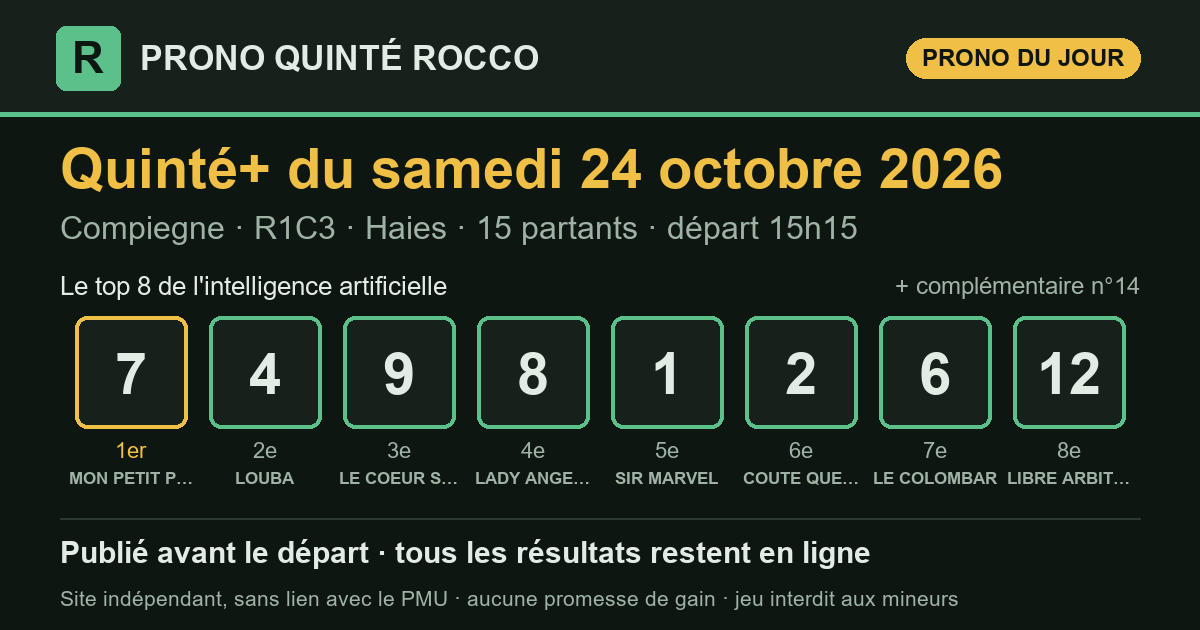
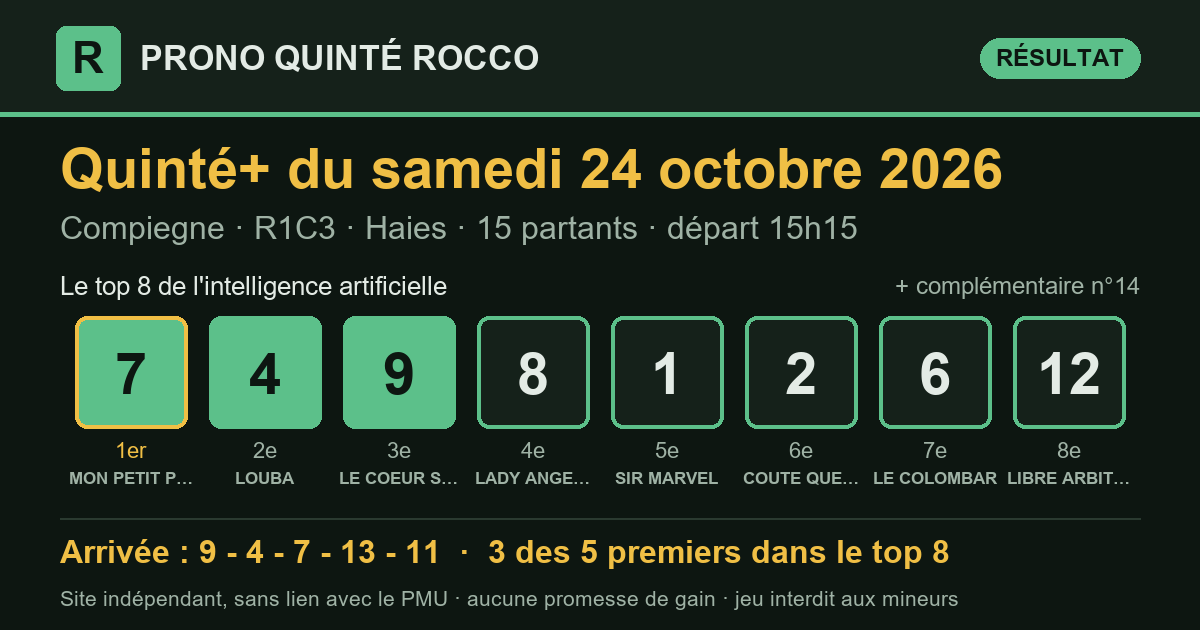
Prono Quinté+ 2026-10-24 Compiegne R1C3 — publié le 24/10/2026 15:34 (heure de Paris)

Changed region(s): [[0.0617, 0.4825, 0.4008, 0.6937], [0.0308, 0.8444, 0.8017, 0.9048], [0.74, 0.0603, 0.9558, 0.1508]]

diff --git a/partants.html b/partants.html
@@ -3,7 +3,7 @@
 <head>
 <meta charset="utf-8">
 <meta name="viewport" content="width=device-width, initial-scale=1, viewport-fit=cover">
-<title>Partants du Quinté+ du samedi 24 octobre 2026 — Prono Quinté Rocco</title>
+<title>Partants du Quinté+ du dimanche 25 octobre 2026 — Prono Quinté Rocco</title>
 <meta name="description" content="Les partants du prochain Quinté+ (programme officiel du PMU), avec le rang du prono IA et les liens vers les pronostics de la presse.">
 <link rel="canonical" href="https://prono-quinte-rocco.fr/partants.html">
 <link rel="stylesheet" href="style.css?v=3c55eb2c">
@@ -13,7 +13,7 @@
 <meta property="og:site_name" content="Prono Quinté Rocco">
 <meta property="og:locale" content="fr_FR">
 <meta property="og:type" content="website">
-<meta property="og:title" content="Partants du Quinté+ du samedi 24 octobre 2026 — Prono Quinté Rocco">
+<meta property="og:title" content="Partants du Quinté+ du dimanche 25 octobre 2026 — Prono Quinté Rocco">
 <meta property="og:description" content="Les partants du prochain Quinté+ (programme officiel du PMU), avec le rang du prono IA et les liens vers les pronostics de la presse.">
 <meta property="og:url" content="https://prono-quinte-rocco.fr/partants.html">
 <meta name="twitter:card" content="summary">
@@ -29,95 +29,100 @@
   <p class="surtitre">Programme officiel du PMU</p>
   <h1>Les partants du prochain Quinté+</h1>
   <div class="fiche-course">
-    <p class="fiche-date">Samedi 24 octobre 2026</p>
-    <div class="fiche-rc"><span class="pastille" title="Réunion 1">R1</span><span class="pastille" title="Course 3">C3</span><span class="fiche-nom">Prix de Beaune</span></div>
-    <p class="meta">Compiegne · Obstacle · 3 600 m · 15 partants</p>
+    <p class="fiche-date">Dimanche 25 octobre 2026</p>
+    <div class="fiche-rc"><span class="pastille" title="Réunion 1">R1</span><span class="pastille" title="Course 5">C5</span><span class="fiche-nom">Prix de l&#x27;Elevage</span></div>
+    <p class="meta">Saint-Cloud · Plat · 2 500 m · 16 partants</p>
     <p class="fiche-depart">Départ <b>15:15</b> <span>heure de Paris</span></p>
   </div>
   <p class="surtitre">Les pronostics ailleurs sur le web</p>
-  <div class="liens"><a class="lien-ext" href="https://www.turfoo.fr/programmes-courses/261024/reunion1-compiegne/course3-prix-de-beaune/pronostics-presse/" rel="noopener" target="_blank"><b>Les pronostics de la presse →</b><span>sur Turfoo (site extérieur)</span></a><a class="lien-ext" href="https://www.geny.com/programme/2026-10-24" rel="noopener" target="_blank"><b>Partants et pronostics →</b><span>programme du jour sur Geny (site extérieur)</span></a></div>
+  <div class="liens"><a class="lien-ext" href="https://www.turfoo.fr/programmes-courses/261025/reunion1-saint-cloud/course5-prix-de-l-elevage/pronostics-presse/" rel="noopener" target="_blank"><b>Les pronostics de la presse →</b><span>sur Turfoo (site extérieur)</span></a><a class="lien-ext" href="https://www.geny.com/programme/2026-10-25" rel="noopener" target="_blank"><b>Partants et pronostics →</b><span>programme du jour sur Geny (site extérieur)</span></a></div>
   <div class="liste-boite"><table class="liste-partants">
     <thead><tr><th>N°</th><th>Cheval</th><th class="cote"><span class="long">Cote du matin</span><span class="court">Cote</span></th>
     <th class="ia"><span class="long">Prono IA</span><span class="court">IA</span></th></tr></thead>
     <tbody><tr>
   <td><span class="tapis petit">1</span></td>
-  <td><span class="cheval">SIR MARVEL</span><span class="sous">L.PHILIPPERON · M.SEROR (S)</span></td>
-  <td class="cote num">11,0</td>
-  <td class="ia"><span class="etat place">5<sup>e</sup></span></td>
+  <td><span class="cheval">AGILE</span><span class="sous">M.VELON · JM.BEGUIGNE</span></td>
+  <td class="cote num">—</td>
+  <td class="ia">—</td>
 </tr><tr>
   <td><span class="tapis petit">2</span></td>
-  <td><span class="cheval">COUTE QUE COUTE</span><span class="sous">J.REVELEY · H.MERIENNE (S)</span></td>
-  <td class="cote num">11,0</td>
-  <td class="ia"><span class="etat place">6<sup>e</sup></span></td>
+  <td><span class="cheval">SHRIHARA</span><span class="sous">A.HAMELIN · C.FEY (S)</span></td>
+  <td class="cote num">—</td>
+  <td class="ia">—</td>
 </tr><tr>
   <td><span class="tapis petit">3</span></td>
-  <td><span class="cheval">BELLE GOSSE</span><span class="sous">A.ZULIANI · F.NICOLLE</span></td>
-  <td class="cote num">18,0</td>
+  <td><span class="cheval">MAIA STAR</span><span class="sous">PC.BOUDOT · JPH .DUBOIS</span></td>
+  <td class="cote num">—</td>
   <td class="ia">—</td>
 </tr><tr>
   <td><span class="tapis petit">4</span></td>
-  <td><span class="cheval">LOUBA</span><span class="sous">B.LE CLERC · F.BELLEMERE</span></td>
-  <td class="cote num">6,4</td>
-  <td class="ia"><span class="etat place">2<sup>e</sup></span></td>
+  <td><span class="cheval">AMERICAN GLORY</span><span class="sous">A.LEMAITRE · N.PERRET (S)</span></td>
+  <td class="cote num">—</td>
+  <td class="ia">—</td>
 </tr><tr>
   <td><span class="tapis petit">5</span></td>
-  <td><span class="cheval">LADY LADY LAY</span><span class="sous">J.CHARRON · GAB.LEENDERS (S)</span></td>
-  <td class="cote num">17,0</td>
+  <td><span class="cheval">HASAPIKO</span><span class="sous">T.BACHELOT · S.WATTEL (S)</span></td>
+  <td class="cote num">—</td>
   <td class="ia">—</td>
 </tr><tr>
   <td><span class="tapis petit">6</span></td>
-  <td><span class="cheval">LE COLOMBAR</span><span class="sous">J.PHELIPPE · M.SEROR (S)</span></td>
-  <td class="cote num">14,0</td>
-  <td class="ia"><span class="etat place">7<sup>e</sup></span></td>
+  <td><span class="cheval">WEEMAGATEE</span><span class="sous">M.GRANDIN · J.ANDREU (S)</span></td>
+  <td class="cote num">—</td>
+  <td class="ia">—</td>
 </tr><tr>
   <td><span class="tapis petit">7</span></td>
-  <td><span class="cheval">MON PETIT PRINCE</span><span class="sous">T.CHEVILLARD · GAB.LEENDERS (S)</span></td>
-  <td class="cote num">4,9</td>
-  <td class="ia"><span class="etat place">1<sup>er</sup></span></td>
+  <td><span class="cheval">AME D&#x27;OR</span><span class="sous">M.BARZALONA · FH.GRAFFARD (S)</span></td>
+  <td class="cote num">—</td>
+  <td class="ia">—</td>
 </tr><tr>
   <td><span class="tapis petit">8</span></td>
-  <td><span class="cheval">LADY ANGE WIN</span><span class="sous">BR.LE CLERC · A.LE CLERC (S)</span></td>
-  <td class="cote num">12,0</td>
-  <td class="ia"><span class="etat place">4<sup>e</sup></span></td>
+  <td><span class="cheval">CRISTABEL</span><span class="sous">O.ANDIGNE · A.COUETIL (S)</span></td>
+  <td class="cote num">—</td>
+  <td class="ia">—</td>
 </tr><tr>
   <td><span class="tapis petit">9</span></td>
-  <td><span class="cheval">LE COEUR SAUVAGE</span><span class="sous">K.NABET · P&amp;C.PELTIER (S)</span></td>
-  <td class="cote num">8,2</td>
-  <td class="ia"><span class="etat place">3<sup>e</sup></span></td>
+  <td><span class="cheval">MARINALEDA</span><span class="sous">C.LECOEUVRE · M.BARATTI (S)</span></td>
+  <td class="cote num">—</td>
+  <td class="ia">—</td>
 </tr><tr>
   <td><span class="tapis petit">10</span></td>
-  <td><span class="cheval">FLYING TRIX</span><span class="sous">T.BEAURAIN · L.CARBERRY (S)</span></td>
-  <td class="cote num">17,0</td>
+  <td><span class="cheval">BRITANIA</span><span class="sous">I.MENDIZABAL · F.ROHAUT (S)</span></td>
+  <td class="cote num">—</td>
   <td class="ia">—</td>
 </tr><tr>
   <td><span class="tapis petit">11</span></td>
-  <td><span class="cheval">JOCASTA</span><span class="sous">T.SERVIER · MME G.MENATO</span></td>
-  <td class="cote num">30,0</td>
+  <td><span class="cheval">GOLDEN BELLE</span><span class="sous">M.GUYON · A.FOUASSIER</span></td>
+  <td class="cote num">—</td>
   <td class="ia">—</td>
 </tr><tr>
   <td><span class="tapis petit">12</span></td>
-  <td><span class="cheval">LIBRE ARBITRE</span><span class="sous">F.GILES · H.MERIENNE (S)</span></td>
-  <td class="cote num">17,0</td>
-  <td class="ia"><span class="etat place">8<sup>e</sup></span></td>
+  <td><span class="cheval">FOXEY LADY</span><span class="sous">M.FAVRIAUX · JM.BEGUIGNE</span></td>
+  <td class="cote num">—</td>
+  <td class="ia">—</td>
 </tr><tr>
   <td><span class="tapis petit">13</span></td>
-  <td><span class="cheval">KING LANE</span><span class="sous">F.BAYLE · M.ROLLAND (S)</span></td>
-  <td class="cote num">34,0</td>
+  <td><span class="cheval">NANCY DES PLACES</span><span class="sous">E.HARDOUIN · C.FEY (S)</span></td>
+  <td class="cote num">—</td>
   <td class="ia">—</td>
 </tr><tr>
   <td><span class="tapis petit">14</span></td>
-  <td><span class="cheval">CAPTAIN FLAG</span><span class="sous">N.FERREIRA · R.SCHMIDLIN</span></td>
-  <td class="cote num">18,0</td>
-  <td class="ia"><span class="etat place">compl.</span></td>
+  <td><span class="cheval">TEARDROP EXPLODES</span><span class="sous">F.VERON · C.BOUTIN (S)</span></td>
+  <td class="cote num">—</td>
+  <td class="ia">—</td>
 </tr><tr>
   <td><span class="tapis petit">15</span></td>
-  <td><span class="cheval">LERIKA</span><span class="sous">L.BEAUBOIS · D.WINDRIF</span></td>
-  <td class="cote num">40,0</td>
+  <td><span class="cheval">JANAH</span><span class="sous">S.PASQUIER · CLEMENT &amp; HERMANS (S)</span></td>
+  <td class="cote num">—</td>
+  <td class="ia">—</td>
+</tr><tr>
+  <td><span class="tapis petit">16</span></td>
+  <td><span class="cheval">GAREYA</span><span class="sous">A.MADAMET · M.DELZANGLES</span></td>
+  <td class="cote num">—</td>
   <td class="ia">—</td>
 </tr></tbody>
   </table></div>
-  <p class="meta">Le rang du prono IA est celui publié sur ce site. Sous chaque cheval : jockey · entraîneur. Partants et cotes : programme
-  officiel du PMU, lu le 24/10 à 11:13 (heure de Paris). NP = non-partant.</p>
+  <p class="meta">Le prono IA de cette course sera publié le matin de la course, avant le départ. Sous chaque cheval : jockey · entraîneur. Partants et cotes : programme
+  officiel du PMU, lu le 24/10 à 15:34 (heure de Paris). NP = non-partant.</p>
 </section>
 </main>
 <footer class="pied">

diff --git a/index.html b/index.html
@@ -16,7 +16,7 @@
 <meta property="og:title" content="Pronostic Quinté+ du samedi 24 octobre 2026 — Prono Quinté Rocco">
 <meta property="og:description" content="Le pronostic du Quinté+ par intelligence artificielle, publié avant le départ, avec tous les résultats et le rendement réel.">
 <meta property="og:url" content="https://prono-quinte-rocco.fr/">
-<meta property="og:image" content="https://prono-quinte-rocco.fr/partage/2026-10-24.png?v=74f74092">
+<meta property="og:image" content="https://prono-quinte-rocco.fr/partage/2026-10-24.png?v=d18e541a">
 <meta property="og:image:type" content="image/png">
 <meta property="og:image:width" content="1200">
 <meta property="og:image:height" content="630">
@@ -31,15 +31,15 @@
 </header>
 <main>
 <section class="une" aria-labelledby="t-jour">
-  <p class="surtitre">Quinté+ du jour</p>
+  <p class="surtitre">Dernier Quinté+</p>
   <h1 id="t-jour">Le prono du Quinté+, résultats compris</h1>
   <p class="chapo">Chaque matin, une intelligence artificielle classe les partants du
   Quinté+. Le classement est publié avant le départ, puis comparé à l'arrivée
   officielle. Tous les résultats restent en ligne, les bons comme les mauvais.</p>
   <article class="carte-course">
-  <div class="tete"><h2>Samedi 24 octobre 2026</h2><span class="etat attente">arrivée en attente</span></div>
+  <div class="tete"><h2>Samedi 24 octobre 2026</h2><span class="etat place">3 des 5 premiers dans le top 8</span></div>
   <p class="meta">Compiegne · <strong>R1C3</strong> · Haies · 15 partants · lisibilité <span class="note" aria-label="note 2 sur 5"><i class="on"></i><i class="on"></i><i class=""></i><i class=""></i><i class=""></i></span> 2/5</p>
-  <ol class="partants" aria-label="Classement du prono"><li><span class="rang">1<sup>er</sup></span><span class="tapis ">7</span><span class="nom">MON PETIT PRINCE</span></li><li><span class="rang">2<sup>e</sup></span><span class="tapis ">4</span><span class="nom">LOUBA</span></li><li><span class="rang">3<sup>e</sup></span><span class="tapis ">9</span><span class="nom">LE COEUR SAUVAGE</span></li><li><span class="rang">4<sup>e</sup></span><span class="tapis ">8</span><span class="nom">LADY ANGE WIN</span></li><li><span class="rang">5<sup>e</sup></span><span class="tapis ">1</span><span class="nom">SIR MARVEL</span></li><li><span class="rang">6<sup>e</sup></span><span class="tapis ">2</span><span class="nom">COUTE QUE COUTE</span></li><li><span class="rang">7<sup>e</sup></span><span class="tapis ">6</span><span class="nom">LE COLOMBAR</span></li><li><span class="rang">8<sup>e</sup></span><span class="tapis ">12</span><span class="nom">LIBRE ARBITRE</span></li><li><span class="rang">compl.</span><span class="tapis creux">14</span><span class="nom">CAPTAIN FLAG</span></li></ol>
+  <ol class="partants" aria-label="Classement du prono"><li><span class="rang">1<sup>er</sup></span><span class="tapis plein">7</span><span class="nom">MON PETIT PRINCE</span></li><li><span class="rang">2<sup>e</sup></span><span class="tapis plein">4</span><span class="nom">LOUBA</span></li><li><span class="rang">3<sup>e</sup></span><span class="tapis plein">9</span><span class="nom">LE COEUR SAUVAGE</span></li><li><span class="rang">4<sup>e</sup></span><span class="tapis ">8</span><span class="nom">LADY ANGE WIN</span></li><li><span class="rang">5<sup>e</sup></span><span class="tapis ">1</span><span class="nom">SIR MARVEL</span></li><li><span class="rang">6<sup>e</sup></span><span class="tapis ">2</span><span class="nom">COUTE QUE COUTE</span></li><li><span class="rang">7<sup>e</sup></span><span class="tapis ">6</span><span class="nom">LE COLOMBAR</span></li><li><span class="rang">8<sup>e</sup></span><span class="tapis ">12</span><span class="nom">LIBRE ARBITRE</span></li><li><span class="rang">compl.</span><span class="tapis creux">14</span><span class="nom">CAPTAIN FLAG</span></li></ol>
   <div class="pied-carte"><span>Analysé le 24/10 à 11:11 · en ligne le 24/10 à 11:13 · départ à 15:15 (heure de Paris)</span><span><a href="quinte/2026-10-24.html">Détail de la course</a></span></div>
 </article>
   <div class="legende"><span><span class="tapis plein petit">4</span> numéro dans les 5 premiers</span>
@@ -62,7 +62,7 @@
 </section>
 <section class="bilan" aria-labelledby="t-bilan">
   <h2 id="t-bilan">Le bilan depuis le 8 septembre 2026</h2>
-  <div class="tableau chiffres"><div class="case"><span class="gros ">74 %</span><span class="lib">des arrivants trouvés dans le top 8</span><span class="ref">un top 8 tiré au hasard : 51 %</span></div><div class="case"><span class="gros ">87 %</span><span class="lib">des gagnants présents dans le top 8</span><span class="ref"></span></div><div class="case"><span class="gros ">51 %</span><span class="lib">1er du prono placé</span><span class="ref">sur 45 Quintés</span></div><div class="case"><span class="gros perte">0,95 €</span><span class="lib">rendus pour 1 € joué placé sur le 1er</span><span class="ref">rapports officiels PMU</span></div><div class="case"><span class="gros perte">0,50 €</span><span class="lib">rendus pour 1 € joué en Quinté+ combiné top 8</span><span class="ref">56 combinaisons, rapports PMU.fr, sur 45 Quintés</span></div></div>
+  <div class="tableau chiffres"><div class="case"><span class="gros ">74 %</span><span class="lib">des arrivants trouvés dans le top 8</span><span class="ref">un top 8 tiré au hasard : 51 %</span></div><div class="case"><span class="gros ">87 %</span><span class="lib">des gagnants présents dans le top 8</span><span class="ref"></span></div><div class="case"><span class="gros ">51 %</span><span class="lib">1er du prono placé</span><span class="ref">sur 45 Quintés</span></div><div class="case"><span class="gros perte">0,95 €</span><span class="lib">rendus pour 1 € joué placé sur le 1er</span><span class="ref">rapports officiels PMU</span></div><div class="case"><span class="gros perte">0,49 €</span><span class="lib">rendus pour 1 € joué en Quinté+ combiné top 8</span><span class="ref">56 combinaisons, rapports PMU.fr, sur 46 Quintés</span></div></div>
   <p class="avertissement">Moins de 1 € rendu pour 1 € joué : suivre ce prono à la lettre fait <strong>perdre de l'argent</strong> sur cette période. Il sert à analyser une course, pas à promettre un gain.</p>
 </section>
 </main>

diff --git a/quinte/2026-10-24.html b/quinte/2026-10-24.html
@@ -16,7 +16,7 @@
 <meta property="og:title" content="Pronostic Quinté+ du samedi 24 octobre 2026 à Compiegne — Prono Quinté Rocco">
 <meta property="og:description" content="Prono Quinté+ du samedi 24 octobre 2026 (Compiegne) : top 8, arrivée officielle et rapports PMU.fr.">
 <meta property="og:url" content="https://prono-quinte-rocco.fr/quinte/2026-10-24.html">
-<meta property="og:image" content="https://prono-quinte-rocco.fr/partage/2026-10-24.png?v=74f74092">
+<meta property="og:image" content="https://prono-quinte-rocco.fr/partage/2026-10-24.png?v=d18e541a">
 <meta property="og:image:type" content="image/png">
 <meta property="og:image:width" content="1200">
 <meta property="og:image:height" content="630">
@@ -35,11 +35,19 @@
   <h1>Pronostic Quinté+ du samedi 24 octobre 2026</h1>
   <p class="chapo">Compiegne · R1C3 · Haies · 15 partants</p>
   <article class="carte-course">
-  <div class="tete"><h2>Le prono : top 8 et complémentaire</h2><span class="etat attente">arrivée en attente</span></div>
+  <div class="tete"><h2>Le prono : top 8 et complémentaire</h2><span class="etat place">3 des 5 premiers dans le top 8</span></div>
   <p class="meta">Compiegne · <strong>R1C3</strong> · Haies · 15 partants · lisibilité <span class="note" aria-label="note 2 sur 5"><i class="on"></i><i class="on"></i><i class=""></i><i class=""></i><i class=""></i></span> 2/5</p>
-  <ol class="partants" aria-label="Classement du prono"><li><span class="rang">1<sup>er</sup></span><span class="tapis ">7</span><span class="nom">MON PETIT PRINCE</span></li><li><span class="rang">2<sup>e</sup></span><span class="tapis ">4</span><span class="nom">LOUBA</span></li><li><span class="rang">3<sup>e</sup></span><span class="tapis ">9</span><span class="nom">LE COEUR SAUVAGE</span></li><li><span class="rang">4<sup>e</sup></span><span class="tapis ">8</span><span class="nom">LADY ANGE WIN</span></li><li><span class="rang">5<sup>e</sup></span><span class="tapis ">1</span><span class="nom">SIR MARVEL</span></li><li><span class="rang">6<sup>e</sup></span><span class="tapis ">2</span><span class="nom">COUTE QUE COUTE</span></li><li><span class="rang">7<sup>e</sup></span><span class="tapis ">6</span><span class="nom">LE COLOMBAR</span></li><li><span class="rang">8<sup>e</sup></span><span class="tapis ">12</span><span class="nom">LIBRE ARBITRE</span></li><li><span class="rang">compl.</span><span class="tapis creux">14</span><span class="nom">CAPTAIN FLAG</span></li></ol>
+  <ol class="partants" aria-label="Classement du prono"><li><span class="rang">1<sup>er</sup></span><span class="tapis plein">7</span><span class="nom">MON PETIT PRINCE</span></li><li><span class="rang">2<sup>e</sup></span><span class="tapis plein">4</span><span class="nom">LOUBA</span></li><li><span class="rang">3<sup>e</sup></span><span class="tapis plein">9</span><span class="nom">LE COEUR SAUVAGE</span></li><li><span class="rang">4<sup>e</sup></span><span class="tapis ">8</span><span class="nom">LADY ANGE WIN</span></li><li><span class="rang">5<sup>e</sup></span><span class="tapis ">1</span><span class="nom">SIR MARVEL</span></li><li><span class="rang">6<sup>e</sup></span><span class="tapis ">2</span><span class="nom">COUTE QUE COUTE</span></li><li><span class="rang">7<sup>e</sup></span><span class="tapis ">6</span><span class="nom">LE COLOMBAR</span></li><li><span class="rang">8<sup>e</sup></span><span class="tapis ">12</span><span class="nom">LIBRE ARBITRE</span></li><li><span class="rang">compl.</span><span class="tapis creux">14</span><span class="nom">CAPTAIN FLAG</span></li></ol>
   <div class="pied-carte"><span>Analysé le 24/10 à 11:11 · en ligne le 24/10 à 11:13 · départ à 15:15 (heure de Paris)</span><span></span></div>
 </article>
+<section class="carte-course" aria-labelledby="t-arr">
+  <div class="tete"><h2 id="t-arr">Arrivée officielle</h2></div>
+  <div class="rangee"><span class="tapis plein" title="1er">9</span><span class="tapis plein" title="2e">4</span><span class="tapis plein" title="3e">7</span><span class="tapis creux" title="4e">13</span><span class="tapis creux" title="5e">11</span></div>
+  <div class="deux">
+    <div><h3>Ce qu'aurait rendu le prono</h3><dl class="kv"><dt>1 € placé sur le 1er (n°7)</dt><dd>rapport manquant</dd><dt>1 € gagnant sur le 1er</dt><dd>rapport manquant</dd><dt>Quinté+ combiné top 8 (mise 112 €)</dt><dd>24,00 €</dd><dt>dont</dt><dd>Bonus 3 × 10</dd></dl></div>
+    <div><h3>Rapports officiels</h3><dl class="kv"><dt>e-Quinté+ Ordre (2 €)</dt><dd>13 323,80 €</dd><dt>e-Quinté+ Désordre (2 €)</dt><dd>171,60 €</dd><dt>e-Bonus 4sur5 (2 €)</dt><dd>3,80 €</dd><dt>e-Bonus 3 (2 €)</dt><dd>2,40 €</dd></dl></div>
+  </div>
+</section>
 </section>
 </main>
 <footer class="pied">

diff --git a/resultats.html b/resultats.html
@@ -39,8 +39,8 @@
     <tbody><tr>
   <td class="c-date"><a href="quinte/2026-10-24.html">24/10</a></td>
   <td class="c-course">Compiegne<br><span class="meta">R1C3 · Haies</span></td>
-  <td data-label="Top 8 du prono"><div class="rangee"><span class="tapis petit">7</span><span class="tapis petit">4</span><span class="tapis petit">9</span><span class="tapis petit">8</span><span class="tapis petit">1</span><span class="tapis petit">2</span><span class="tapis petit">6</span><span class="tapis petit">12</span></div></td><td data-label="Arrivée"><span class="etat attente">en attente</span></td>
-  <td class="num" data-label="Trouvés">—</td><td data-label="1er du prono"><span class="etat attente">—</span></td><td class="mont" data-label="Quinté+ top 8 (mise 112 €)">—</td>
+  <td data-label="Top 8 du prono"><div class="rangee"><span class="tapis plein petit">7</span><span class="tapis plein petit">4</span><span class="tapis plein petit">9</span><span class="tapis petit">8</span><span class="tapis petit">1</span><span class="tapis petit">2</span><span class="tapis petit">6</span><span class="tapis petit">12</span></div></td><td data-label="Arrivée"><div class="rangee"><span class="tapis plein petit" title="1er">9</span><span class="tapis plein petit" title="2e">4</span><span class="tapis plein petit" title="3e">7</span><span class="tapis creux petit" title="4e">13</span><span class="tapis creux petit" title="5e">11</span></div></td>
+  <td class="num" data-label="Trouvés">3/5</td><td data-label="1er du prono"><span class="etat place">placé</span></td><td class="mont perte" data-label="Quinté+ top 8 (mise 112 €)">24,00 €</td>
 </tr><tr>
   <td class="c-date"><a href="quinte/2026-10-23.html">23/10</a></td>
   <td class="c-course">Vincennes<br><span class="meta">R1C4 · Attelé</span></td>
@@ -271,7 +271,7 @@
 </section>
 <section class="bilan" aria-labelledby="t-bilan">
   <h2 id="t-bilan">Le bilan depuis le 8 septembre 2026</h2>
-  <div class="tableau chiffres"><div class="case"><span class="gros ">74 %</span><span class="lib">des arrivants trouvés dans le top 8</span><span class="ref">un top 8 tiré au hasard : 51 %</span></div><div class="case"><span class="gros ">87 %</span><span class="lib">des gagnants présents dans le top 8</span><span class="ref"></span></div><div class="case"><span class="gros ">51 %</span><span class="lib">1er du prono placé</span><span class="ref">sur 45 Quintés</span></div><div class="case"><span class="gros perte">0,95 €</span><span class="lib">rendus pour 1 € joué placé sur le 1er</span><span class="ref">rapports officiels PMU</span></div><div class="case"><span class="gros perte">0,50 €</span><span class="lib">rendus pour 1 € joué en Quinté+ combiné top 8</span><span class="ref">56 combinaisons, rapports PMU.fr, sur 45 Quintés</span></div></div>
+  <div class="tableau chiffres"><div class="case"><span class="gros ">74 %</span><span class="lib">des arrivants trouvés dans le top 8</span><span class="ref">un top 8 tiré au hasard : 51 %</span></div><div class="case"><span class="gros ">87 %</span><span class="lib">des gagnants présents dans le top 8</span><span class="ref"></span></div><div class="case"><span class="gros ">51 %</span><span class="lib">1er du prono placé</span><span class="ref">sur 45 Quintés</span></div><div class="case"><span class="gros perte">0,95 €</span><span class="lib">rendus pour 1 € joué placé sur le 1er</span><span class="ref">rapports officiels PMU</span></div><div class="case"><span class="gros perte">0,49 €</span><span class="lib">rendus pour 1 € joué en Quinté+ combiné top 8</span><span class="ref">56 combinaisons, rapports PMU.fr, sur 46 Quintés</span></div></div>
   <p class="avertissement">Moins de 1 € rendu pour 1 € joué : suivre ce prono à la lettre fait <strong>perdre de l'argent</strong> sur cette période. Il sert à analyser une course, pas à promettre un gain.</p>
 </section>
 </main>
